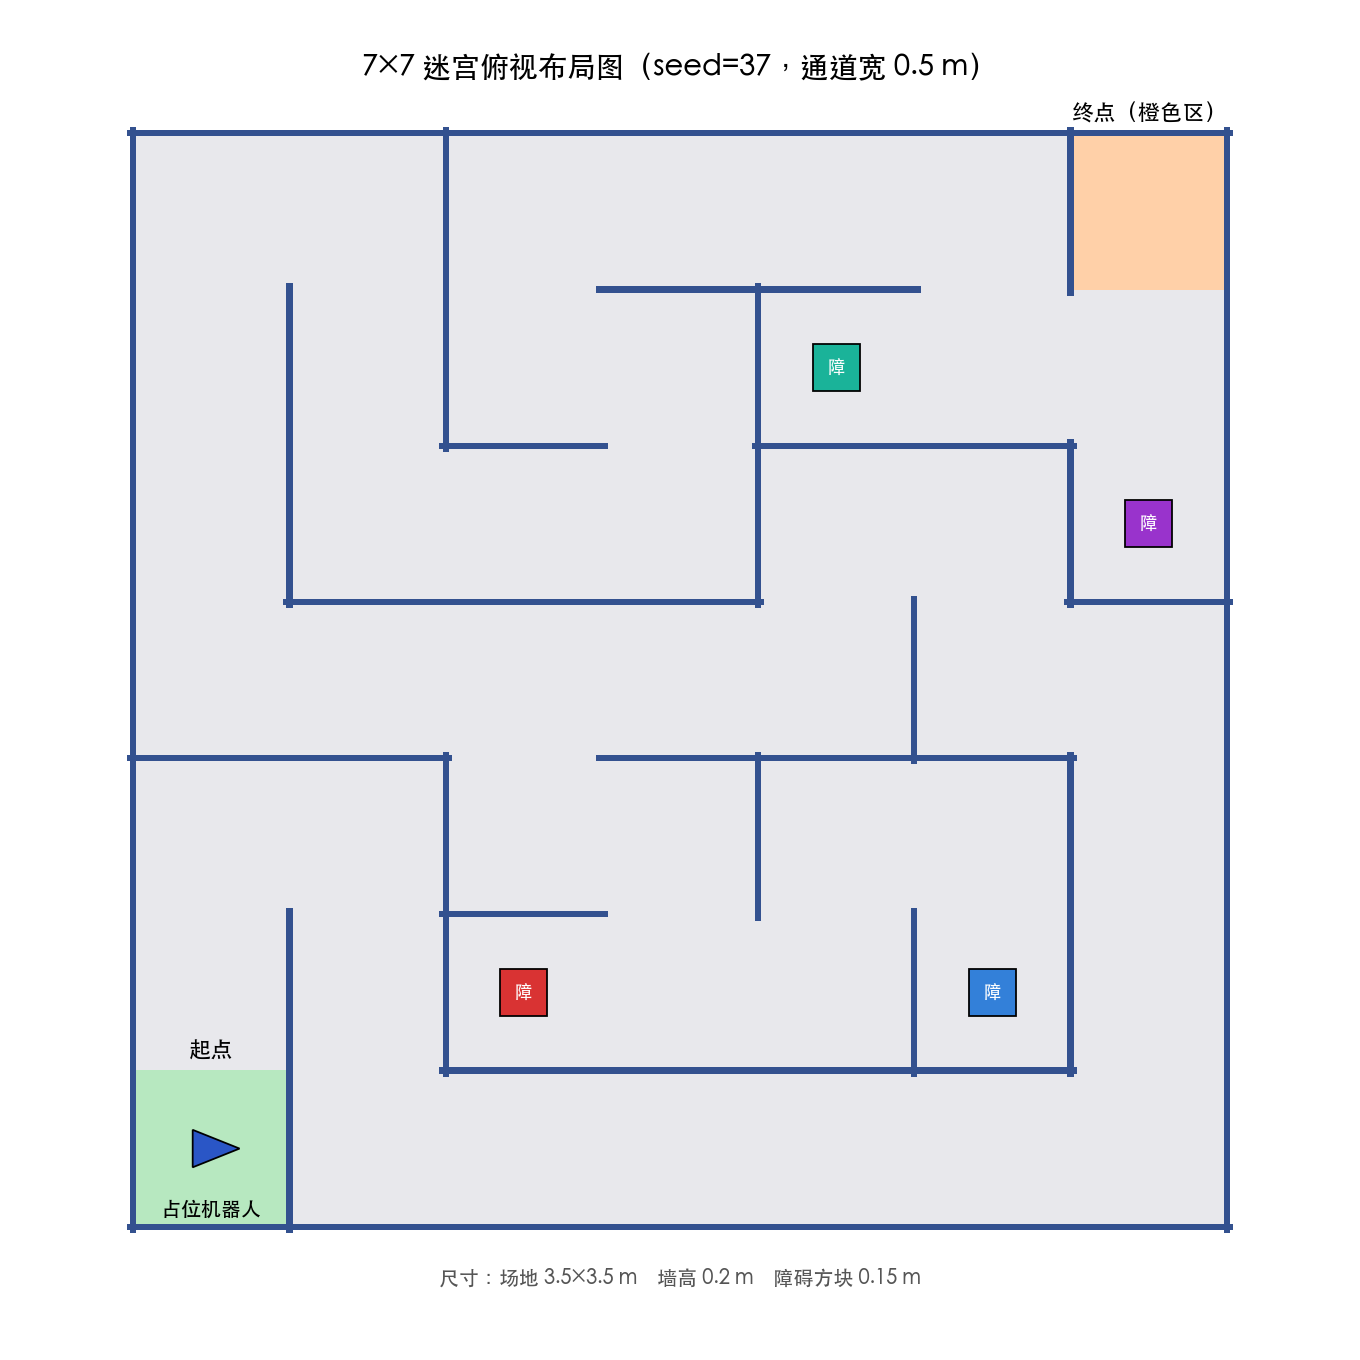
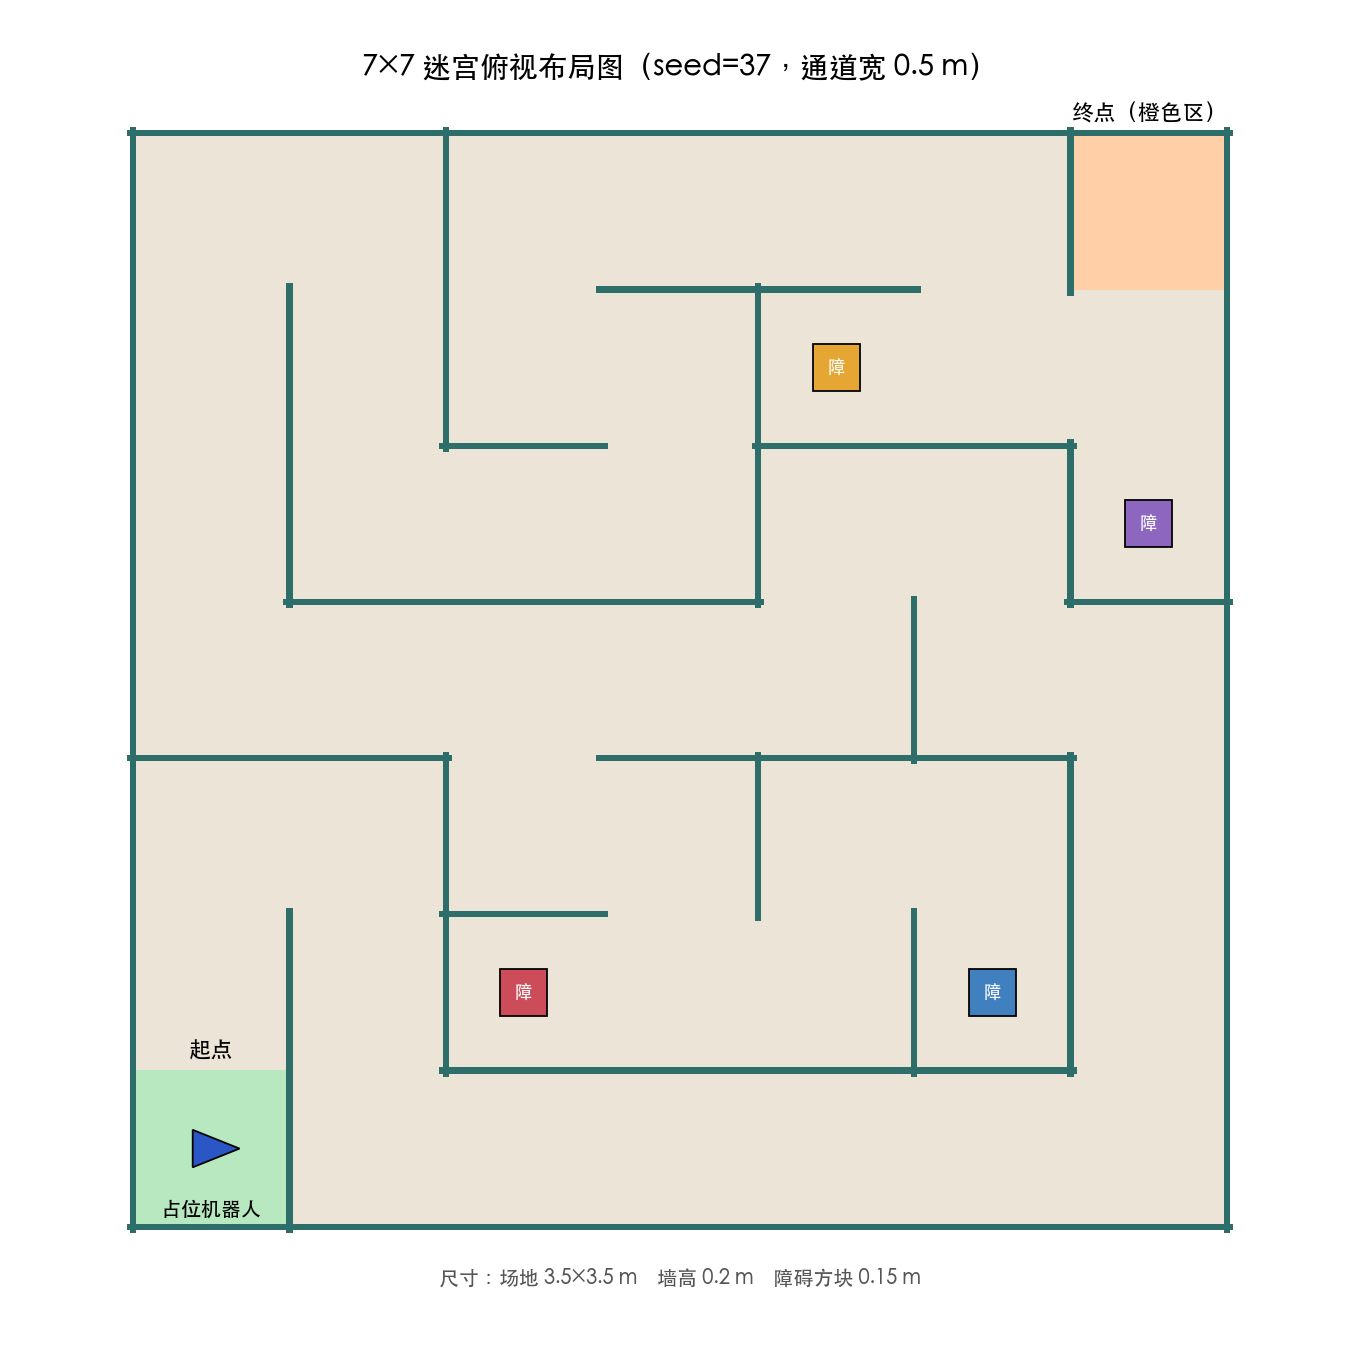
视觉优化：奶油地板+深青墙+柔和障碍配色，布局图同步

Changed region(s): [[0.0926, 0.0926, 0.9265, 0.9265], [0.2162, 0.4324, 0.5559, 0.4632], [0.1853, 0.2162, 0.2162, 0.4324]]

diff --git a/tools/generate_maze.py b/tools/generate_maze.py
@@ -35,12 +35,12 @@ HALF = N * CELL / 2.0        # 场地半宽 = 1.25 m
 ROOT = os.path.dirname(os.path.dirname(os.path.abspath(__file__)))
 
 OBSTACLE_COLORS = [
-    (0.85, 0.20, 0.20),
-    (0.20, 0.50, 0.85),
-    (0.60, 0.20, 0.80),
-    (0.10, 0.70, 0.60),
-    (0.90, 0.60, 0.10),
-    (0.45, 0.45, 0.50),
+    (0.80, 0.30, 0.35),   # 莓红
+    (0.25, 0.50, 0.75),   # 海蓝
+    (0.55, 0.40, 0.75),   # 紫罗兰
+    (0.90, 0.65, 0.20),   # 琥珀
+    (0.20, 0.65, 0.60),   # 松石绿
+    (0.45, 0.50, 0.55),   # 岩灰
 ]
 OBST_SIZE = 0.15   # 障碍物边长 m
 
@@ -147,7 +147,7 @@ def build_wbt(walls, dead_ends, rng):
   children [
     DEF FLOOR_SHAPE Shape {
       appearance PBRAppearance {
-        baseColor 0.45 0.45 0.48
+        baseColor 0.92 0.88 0.82
         roughness 1
         metalness 0
       }
@@ -177,7 +177,7 @@ def build_wbt(walls, dead_ends, rng):
           % (defname, x, y, color[0], color[1], color[2],
              CELL, CELL, label))
 
-    # 迷宫墙
+    # 迷宫墙（%d 段）
     a('# 迷宫墙（%d 段）\n' % len(segs))
     for k, (x, y, kind, length) in enumerate(segs):
         if kind == 'V':
@@ -189,7 +189,7 @@ def build_wbt(walls, dead_ends, rng):
   children [
     Shape {
       appearance PBRAppearance {
-        baseColor 0.20 0.35 0.60
+        baseColor 0.18 0.43 0.42
         roughness 1
         metalness 0
       }
@@ -377,7 +377,7 @@ def draw_layout_png(walls, dead_ends, seed, out_path):
     sx0, sy0 = cell_center(0, 0)
     fx0, fy0 = cell_center(N - 1, N - 1)
     ax.add_patch(Rectangle((-HALF, -HALF), 2 * HALF, 2 * HALF,
-                           facecolor='#e8e8ec', edgecolor='none'))
+                           facecolor='#ece4d6', edgecolor='none'))
     ax.add_patch(Rectangle((sx0 - CELL / 2, sy0 - CELL / 2), CELL, CELL,
                            facecolor='#b7e8c0', edgecolor='none'))
     ax.add_patch(Rectangle((fx0 - CELL / 2, fy0 - CELL / 2), CELL, CELL,
@@ -398,11 +398,11 @@ def draw_layout_png(walls, dead_ends, seed, out_path):
         if kind == 'V':
             ax.add_patch(Rectangle((x - WALL_T / 2, y - length / 2),
                                    WALL_T, length,
-                                   facecolor='#33518f', edgecolor='none'))
+                                   facecolor='#2e6e6a', edgecolor='none'))
         else:
             ax.add_patch(Rectangle((x - length / 2, y - WALL_T / 2),
                                    length, WALL_T,
-                                   facecolor='#33518f', edgecolor='none'))
+                                   facecolor='#2e6e6a', edgecolor='none'))
 
     # 占位机器人（起点，车头朝东）
     rx, ry = cell_center(0, 0)
